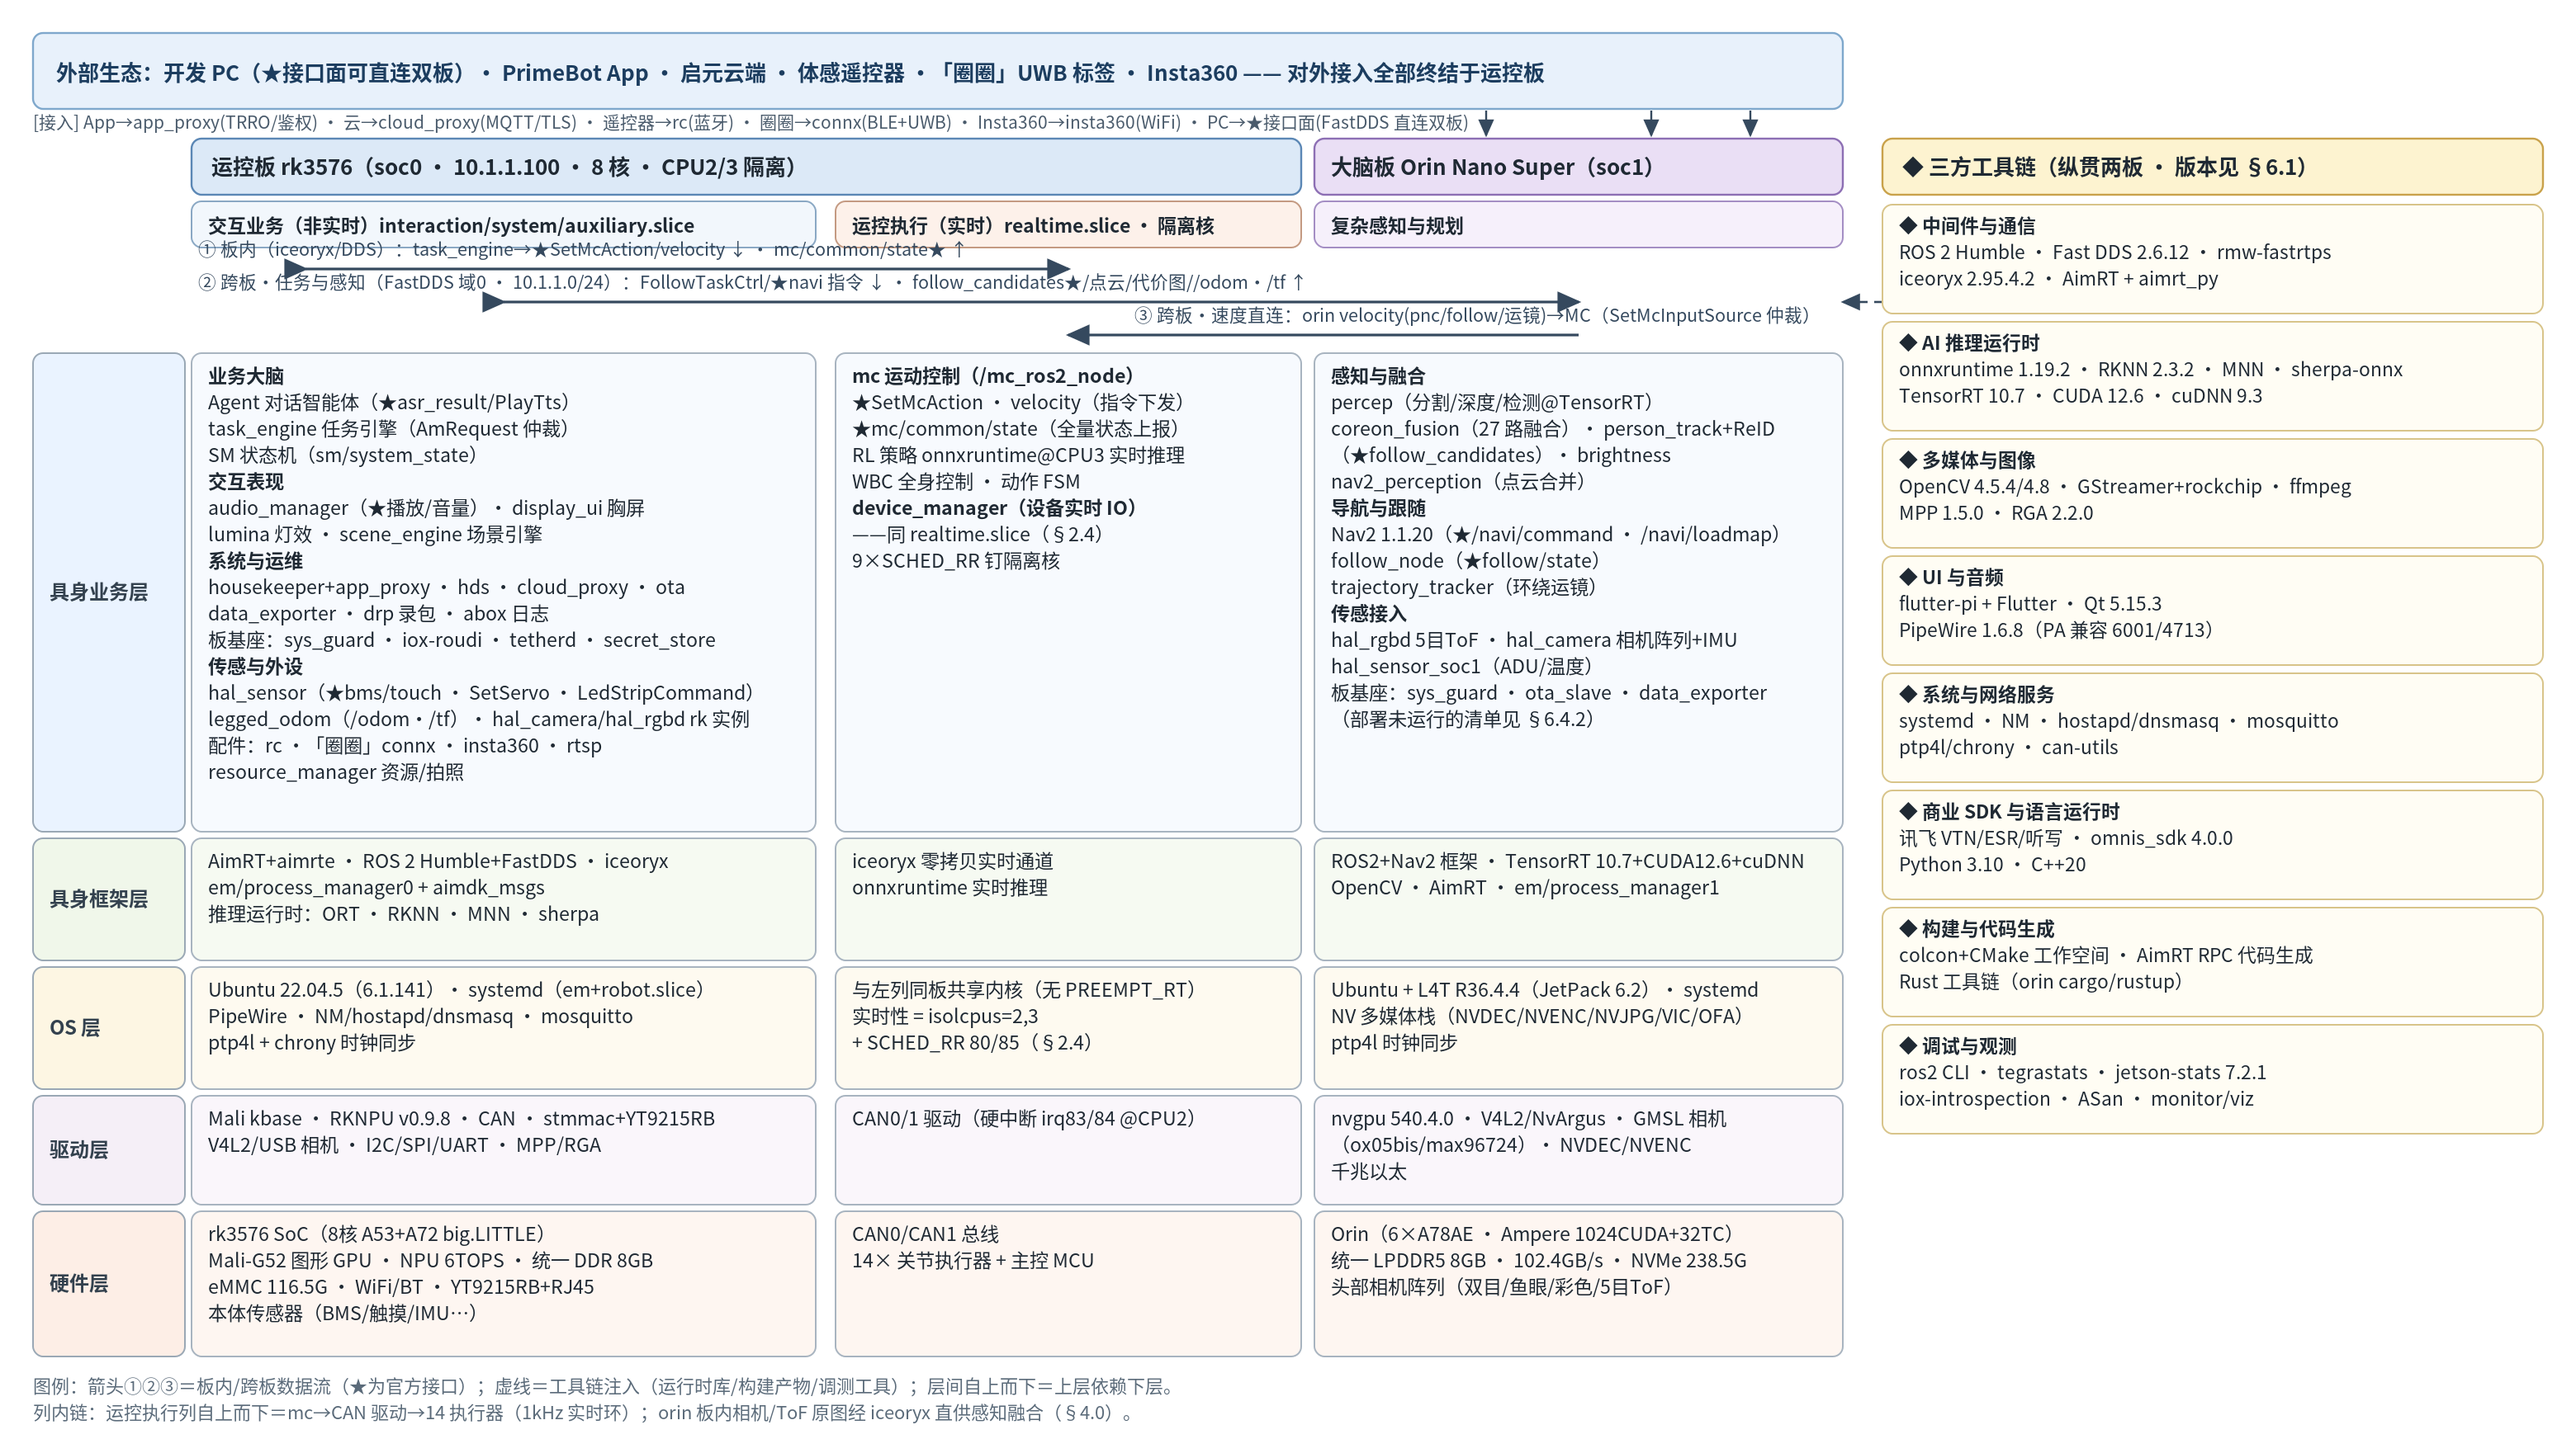
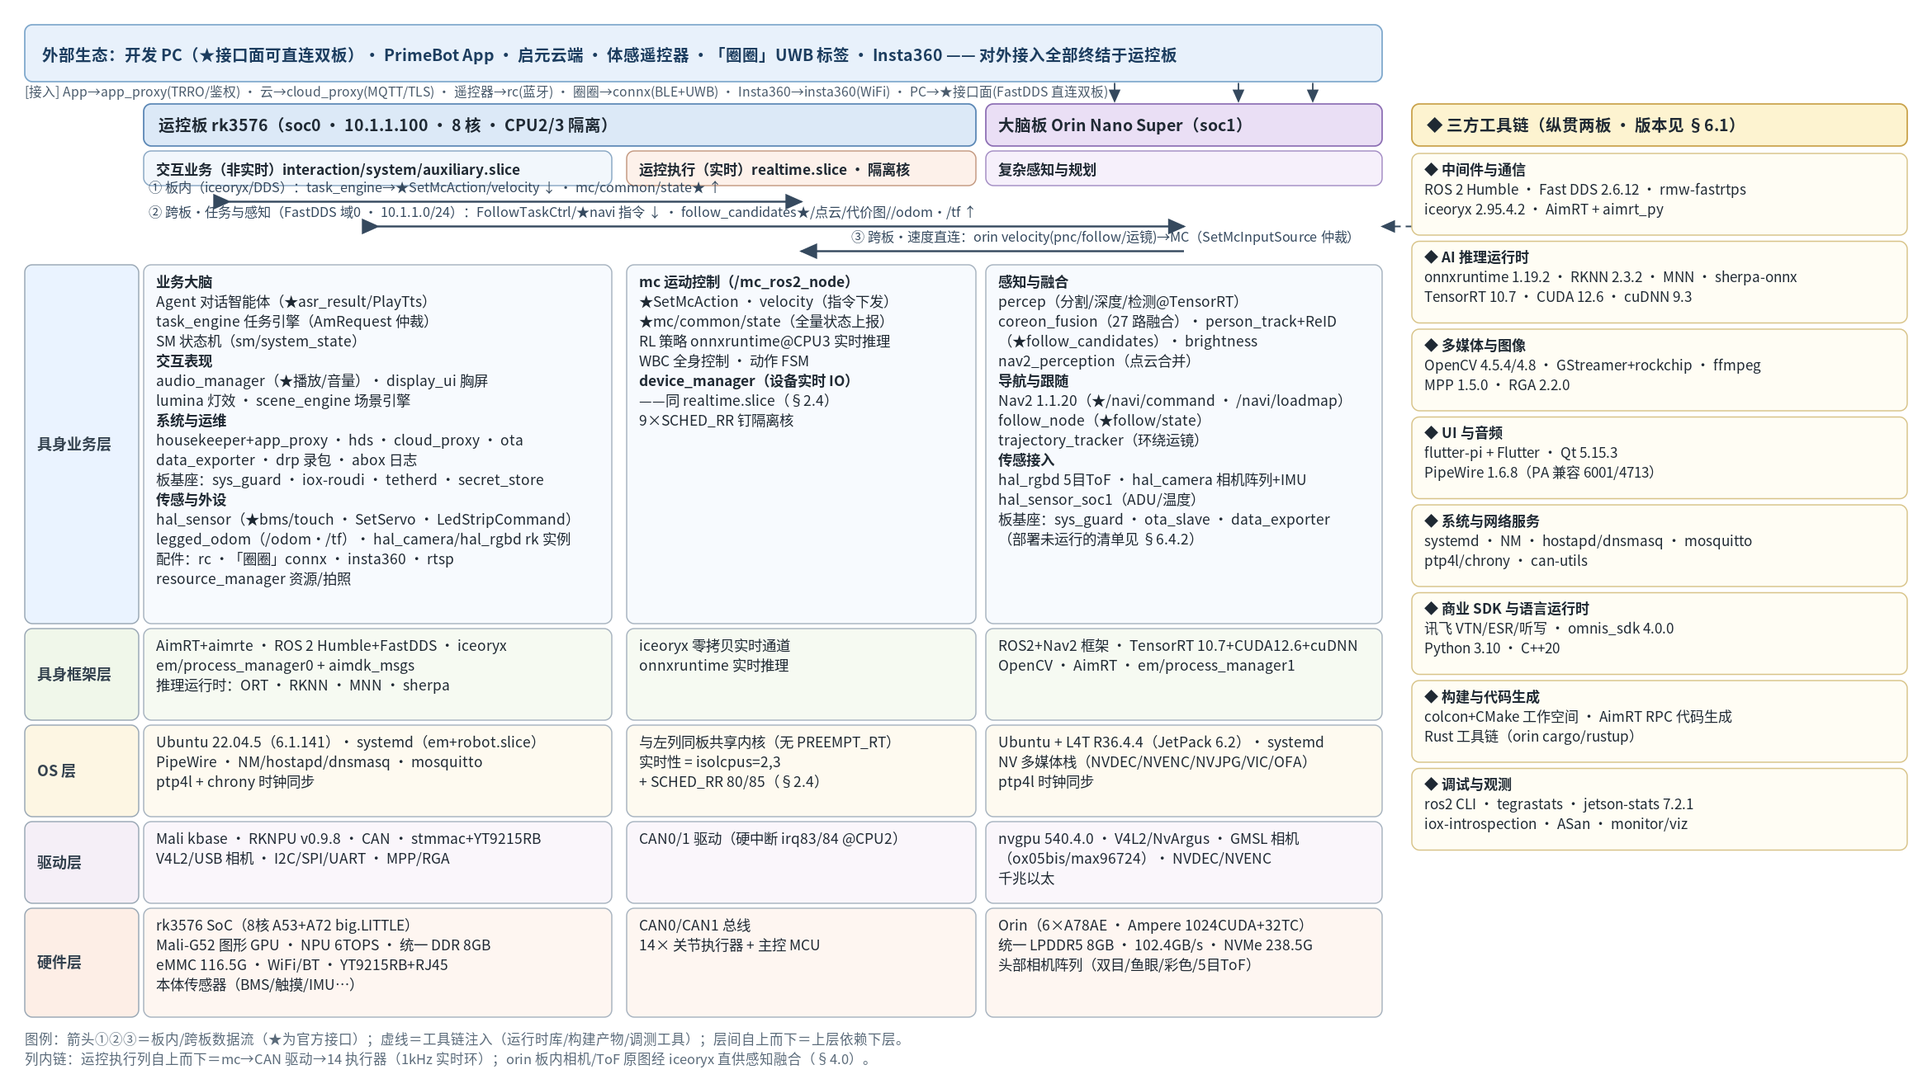
§6.2 时序图修正与标题优化；图 7-1 PNG 提速（1.5x）
- 修正 UC2 时序图误插位置：插入定位逻辑越界匹配到 6.2.3 的读图要点标记致 UC2 时序图落在 6.2.3，已移回 6.2.2；复验 6.2.1/6.2.2/6.2.3 各含 1 张且 flowchart→sequence 顺序正确
- 三张时序图标题按场景明确化（UC1/UC2/UC3 + 端到端阶段链与实测时延；UC1 附读法图例，其余引用同）
- 图 7-1 PNG 由 2x/790KB 降为 1.5x/535KB（文字仍清晰，加载更快）；生成脚本默认同步 1.5x；SVG 保留为源文件不参与文档渲染（规避 GitHub 对 SVG 预览的已知不稳定）

diff --git a/figures/gen_fig_7_1.py b/figures/gen_fig_7_1.py
@@ -244,7 +244,7 @@ out = '\n'.join(S)
 open('figures/fig-7-1-layered-arch.svg', 'w', encoding='utf-8').write(out)
 try:
     import cairosvg
-    cairosvg.svg2png(url='figures/fig-7-1-layered-arch.svg', write_to='figures/fig-7-1-layered-arch.png', scale=2)
+    cairosvg.svg2png(url='figures/fig-7-1-layered-arch.svg', write_to='figures/fig-7-1-layered-arch.png', scale=1.5)
 except Exception as e:
     print('PNG 跳过（无 cairosvg）:', e)
 if OVERFLOW:

diff --git a/t1-pro-orin-rk-analysis.md b/t1-pro-orin-rk-analysis.md
@@ -1014,7 +1014,9 @@ flowchart LR
     TE -.->|"interaction/state ★ 任务状态"| LUM
 ```
 
-**时序图（纵向=时间；实线=请求，虚线=返回；每条消息标注接口类型：Service=ROS2 服务 / Topic=单向广播 / FuncCall=板内函数调用）**：
+**时序图 UC1「请跳个舞」——语音 → 云端意图（实测 ~62s）→ 任务仲裁 → 起身+四足跳舞（18s）→ 多模态反馈**
+
+> 读法（纵向=时间；实线=请求、虚线=返回；Service=ROS 2 服务 / Topic=单向广播 / FuncCall=板内函数调用）。
 
 ```mermaid
 sequenceDiagram
@@ -1086,39 +1088,9 @@ flowchart LR
     TE -.->|"完成播报 PlayTts"| USER
 ```
 
-门控与要点（实测规则 + 事件流）：
-1. **任务规则前置检查**（`rule/t1/posture.yaml`）：`allow_held_state: false`（**牵手状态下拒绝姿态切换**）；`posture_exemptions "4":[battery, charging]`（趴下动画豁免低电/充电态——趴下充电场景）；任意姿态可触发、可被 move/posture/upper_body 抢占。
-2. **实测节奏**：双足→趴稳 5s（21→102→110）；趴→四足站立 5s（115→101→102）；动作完成以 `mc/common/state.action_info` 状态回报 TE 闭环。
-3. 姿态切换全链路在 rk 板内闭环（不涉 orin），语义段走云端。
+**时序图 UC2「趴下 → 四足站立」——规则门控（牵手/电量）→ ★SetMcAction → RL 姿态控制环 → 完成播报**
 
-#### 6.2.3 UC3「牵着 T1 的手一起走」（跟随）
-
-```mermaid
-flowchart LR
-    USER(["👤 用户: 语音「跟着我」<br/>+ 牵手带步"])
-    subgraph RK["🖥 运控板 rk"]
-        AGENT["Agent 意图"]
-        TE["task_engine<br/>规则: follow.yaml (pri 50)<br/>电量≥6% · odom 可信"]
-        MC["MC /mc_ros2_node (CPU3)<br/>双足 WBC + 力导引牵行步态"]
-        CAN["CAN @CPU2 → 关节"]
-    end
-    subgraph ORIN["🧠 大脑板 orin"]
-        PTR["person_track<br/>yolov8s-seg + clip_reid/swin ReID<br/>(TensorRT @GPU)"]
-        FLW["follow_node 语义跟随规划<br/>(decoupled-PID+零相位低通)"]
-    end
-    USER --> AGENT -- "semantic_intent" --> TE
-    TE ==>|"FollowTaskCtrl(type=1 跟随)"| X1{"任务分发"}
-    X1 ==>|"set_follow_perception_task(启搜)"| PTR
-    X1 ==>|"SetFollowTaskBiped"| FLW
-    PTR -.->|"follow_candidates ★ (本例未锁定目标<br/>follow/state=1 未发现)"| TE
-    FLW -.->|"velocity(source=follow)→MC<br/>(视觉跟随路径·本例未生效)"| MC
-    USER == "牵手（关节力矩感知）" ==> MC
-    MC ==>|"held_state: McHandHeldState<br/>(LEFT/RIGHT_HELD · is_held)"| TE
-    MC -- "WBC 牵行关节指令" --> CAN
-    MC ==>|"★ mc/common/state(held_state/is_moving)"| TE
-```
-
-**时序图（接口/返回值明细）**：
+> 读法同 UC1 时序图。
 
 ```mermaid
 sequenceDiagram
@@ -1153,7 +1125,41 @@ sequenceDiagram
     AG-->>TE: PlayTtsResponse{trace_id}
 ```
 
-**时序图（接口/返回值明细）**：
+门控与要点（实测规则 + 事件流）：
+1. **任务规则前置检查**（`rule/t1/posture.yaml`）：`allow_held_state: false`（**牵手状态下拒绝姿态切换**）；`posture_exemptions "4":[battery, charging]`（趴下动画豁免低电/充电态——趴下充电场景）；任意姿态可触发、可被 move/posture/upper_body 抢占。
+2. **实测节奏**：双足→趴稳 5s（21→102→110）；趴→四足站立 5s（115→101→102）；动作完成以 `mc/common/state.action_info` 状态回报 TE 闭环。
+3. 姿态切换全链路在 rk 板内闭环（不涉 orin），语义段走云端。
+
+#### 6.2.3 UC3「牵着 T1 的手一起走」（跟随）
+
+```mermaid
+flowchart LR
+    USER(["👤 用户: 语音「跟着我」<br/>+ 牵手带步"])
+    subgraph RK["🖥 运控板 rk"]
+        AGENT["Agent 意图"]
+        TE["task_engine<br/>规则: follow.yaml (pri 50)<br/>电量≥6% · odom 可信"]
+        MC["MC /mc_ros2_node (CPU3)<br/>双足 WBC + 力导引牵行步态"]
+        CAN["CAN @CPU2 → 关节"]
+    end
+    subgraph ORIN["🧠 大脑板 orin"]
+        PTR["person_track<br/>yolov8s-seg + clip_reid/swin ReID<br/>(TensorRT @GPU)"]
+        FLW["follow_node 语义跟随规划<br/>(decoupled-PID+零相位低通)"]
+    end
+    USER --> AGENT -- "semantic_intent" --> TE
+    TE ==>|"FollowTaskCtrl(type=1 跟随)"| X1{"任务分发"}
+    X1 ==>|"set_follow_perception_task(启搜)"| PTR
+    X1 ==>|"SetFollowTaskBiped"| FLW
+    PTR -.->|"follow_candidates ★ (本例未锁定目标<br/>follow/state=1 未发现)"| TE
+    FLW -.->|"velocity(source=follow)→MC<br/>(视觉跟随路径·本例未生效)"| MC
+    USER == "牵手（关节力矩感知）" ==> MC
+    MC ==>|"held_state: McHandHeldState<br/>(LEFT/RIGHT_HELD · is_held)"| TE
+    MC -- "WBC 牵行关节指令" --> CAN
+    MC ==>|"★ mc/common/state(held_state/is_moving)"| TE
+```
+
+**时序图 UC3「牵着 T1 的手一起走」——跟随任务启停（视觉未锁定）→ 牵手 held_state 检测 → 双足 WBC 力导引带步**
+
+> 读法同 UC1 时序图。
 
 ```mermaid
 sequenceDiagram
